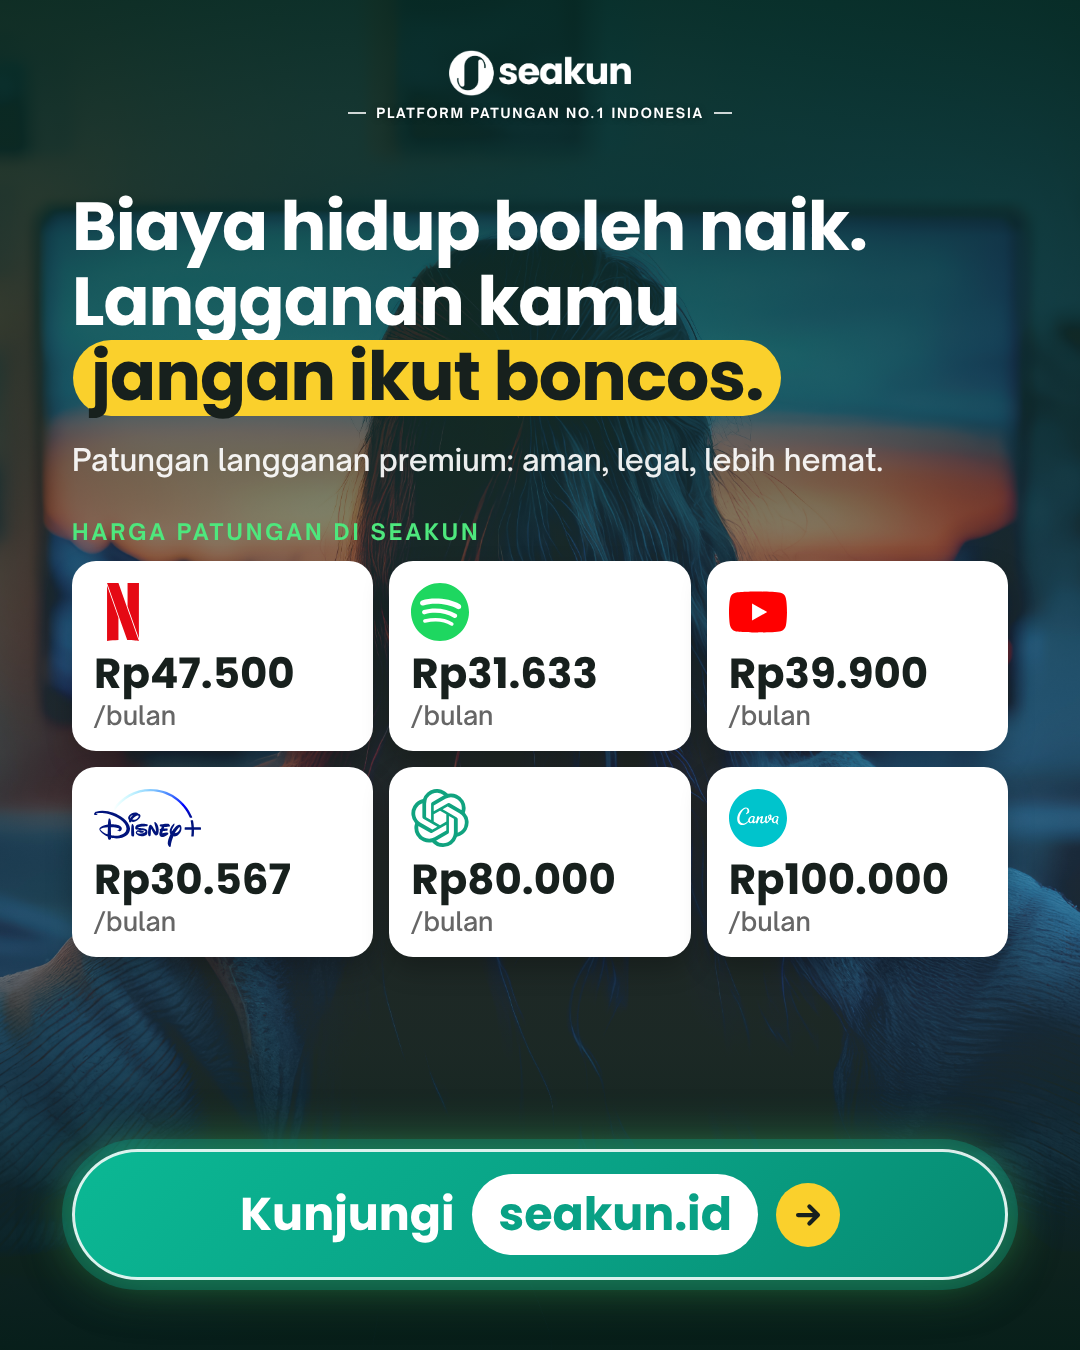
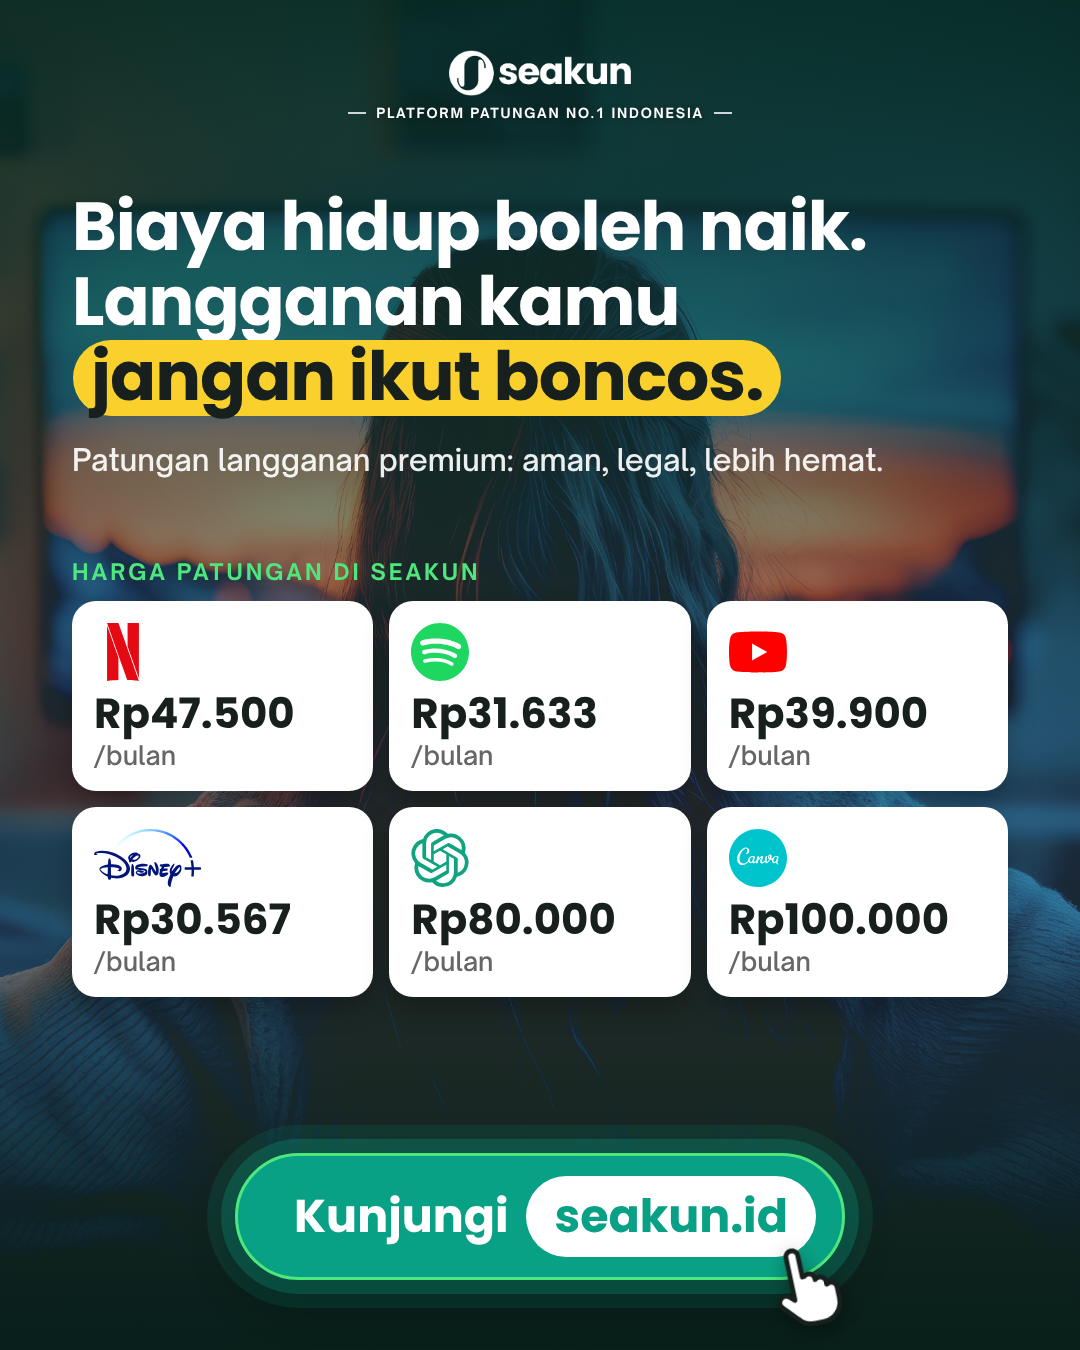
CTA: tombol tap dengan pil putih seakun.id
Claude-Session: https://claude.ai/code/session_0151yEFVVwSd8fKr28vRAMgL

Changed region(s): [[0.0611, 0.3733, 0.9472, 0.7467], [0.0306, 0.84, 0.9472, 0.9956]]

diff --git a/konten/brand/visual/render.py b/konten/brand/visual/render.py
@@ -446,7 +446,8 @@ body{font-family:BodyFont,sans-serif;color:%(text)s;position:relative}
 .btb .url{flex:1;display:flex;align-items:center;gap:12px;background:#F1F4F3;border-radius:18px;padding:16px 22px;font-family:HeadFont,sans-serif;font-size:40px;color:#17201D}
 .btb .go{display:flex;align-items:center;gap:10px;background:#09A185;color:#fff;border-radius:18px;padding:18px 26px;font-family:HeadFont,sans-serif;font-size:36px}
 .btt{margin-top:auto;position:relative;align-self:center;background:#09A185;color:#fff;border-radius:999px;padding:26px 64px;font-family:HeadFont,sans-serif;font-size:46px;border:3px solid #4EE77D;box-shadow:0 0 0 14px rgba(9,161,133,.28),0 0 0 28px rgba(9,161,133,.14),0 20px 44px rgba(0,0,0,.35)}
-.btt b{font-weight:400;color:#FAD02C}
+.btt{display:flex;align-items:center;gap:18px;padding:20px 26px 20px 56px}
+.btt .w{background:#fff;color:#09A185;border-radius:50px;padding:6px 28px}
 .btt .tap{position:absolute;right:-10px;bottom:-56px;width:96px;height:96px;transform:rotate(-12deg);filter:drop-shadow(0 6px 10px rgba(0,0,0,.35))}
 .bisi{position:absolute;z-index:2;left:64px;right:64px}
 .bisi p{font-size:31px;line-height:1.5;color:#151515;margin-bottom:32px;text-wrap:pretty}
@@ -608,7 +609,7 @@ def tombol_cta(gaya, arrow):
         return (f'<div class="btb"><div class="dots"><i></i><i></i><i></i></div><div class="url">{lock}<span>{w}</span></div>'
                 f'<div class="go">Buka {ar_w}</div></div>')
     if gaya == "tap":
-        return f'<div class="btt"><span>Kunjungi <b>{w}</b></span>{tap}</div>'
+        return f'<div class="btt"><span>Kunjungi</span><span class="w">{w}</span>{tap}</div>'
     return f'<div class="bt2"><span class="t">Kunjungi</span><span class="w">{w}</span><span class="ar">{arrow}</span></div>'
 
 def slide_html(s, n=1):
